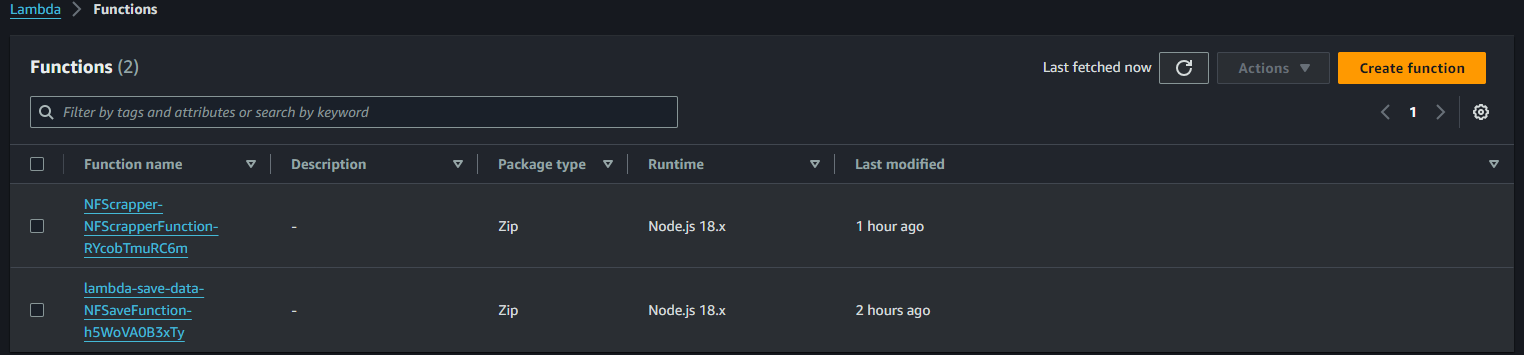
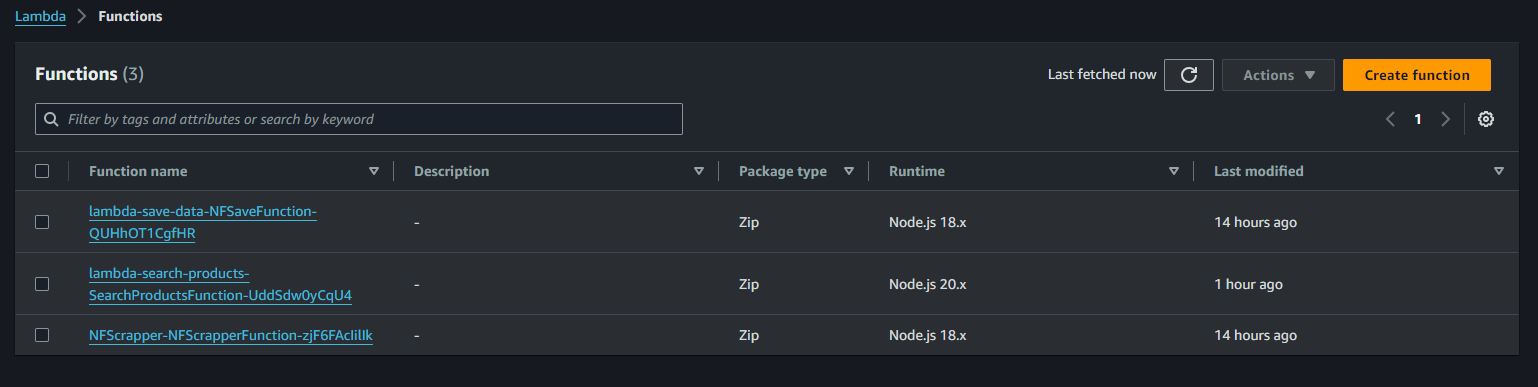
docs: update README

diff --git a/README.md b/README.md
@@ -2,13 +2,14 @@
 
 Comparador de preços de produtos de supermercados.
 
-## O projeto midas é composto por 3 repositórios:
+## O projeto midas é composto por 4 repositórios:
 
 Todos os repositórios estão públicos e contém informações de como executar-los.
 
 - [SNS Publisher](https://github.com/marcosparreiras/sns-publisher-puc)
 - [Scrapper Data](https://github.com/marcosparreiras/lambda-scrapper-puc)
 - [Save Data](https://github.com/marcosparreiras/lambda-save-data-puc)
+- [Search Products](https://github.com/marcosparreiras/lambda-search-products)
 
 ![quadro branco do projeto](./images/white-board.png)
 
@@ -41,6 +42,18 @@ Filas SQS
 Lamdba Function
 
 ![funcoes lambdas](./images/lambda-functions.png)
+
+O `Search Products` também está hospedado na AWS e também conta com um arquivo declarativo do Cloud Formation para provisionar sua infraestrutura (API Gateway e Lambda Function).
+
+API Gateway
+
+![funcoes lambdas](./images/api-gateway.png)
+
+teste a aplicação
+
+```bash
+curl -X POST -H "Content-Type: application/json" -d '{"productName": "papelao", "userLatitude": -19.94371450344724, "userLongitude": -43.935641886994574, "maxDistance": 10}' https://3q8p2xen33.execute-api.us-east-1.amazonaws.com/Prod/products
+```
 
 ## Esquema do Banco de Dados
 
